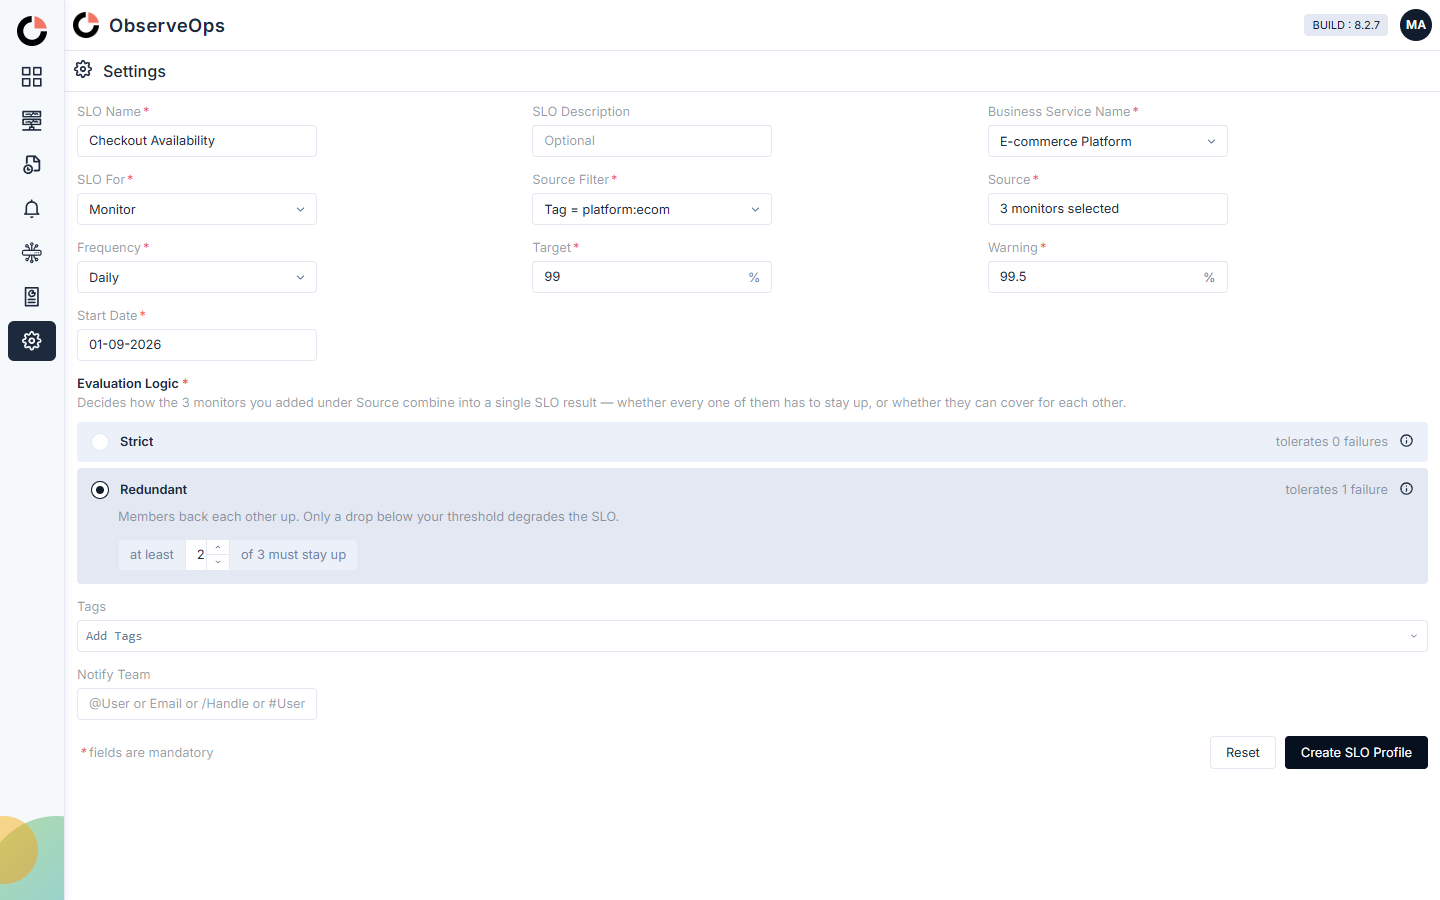
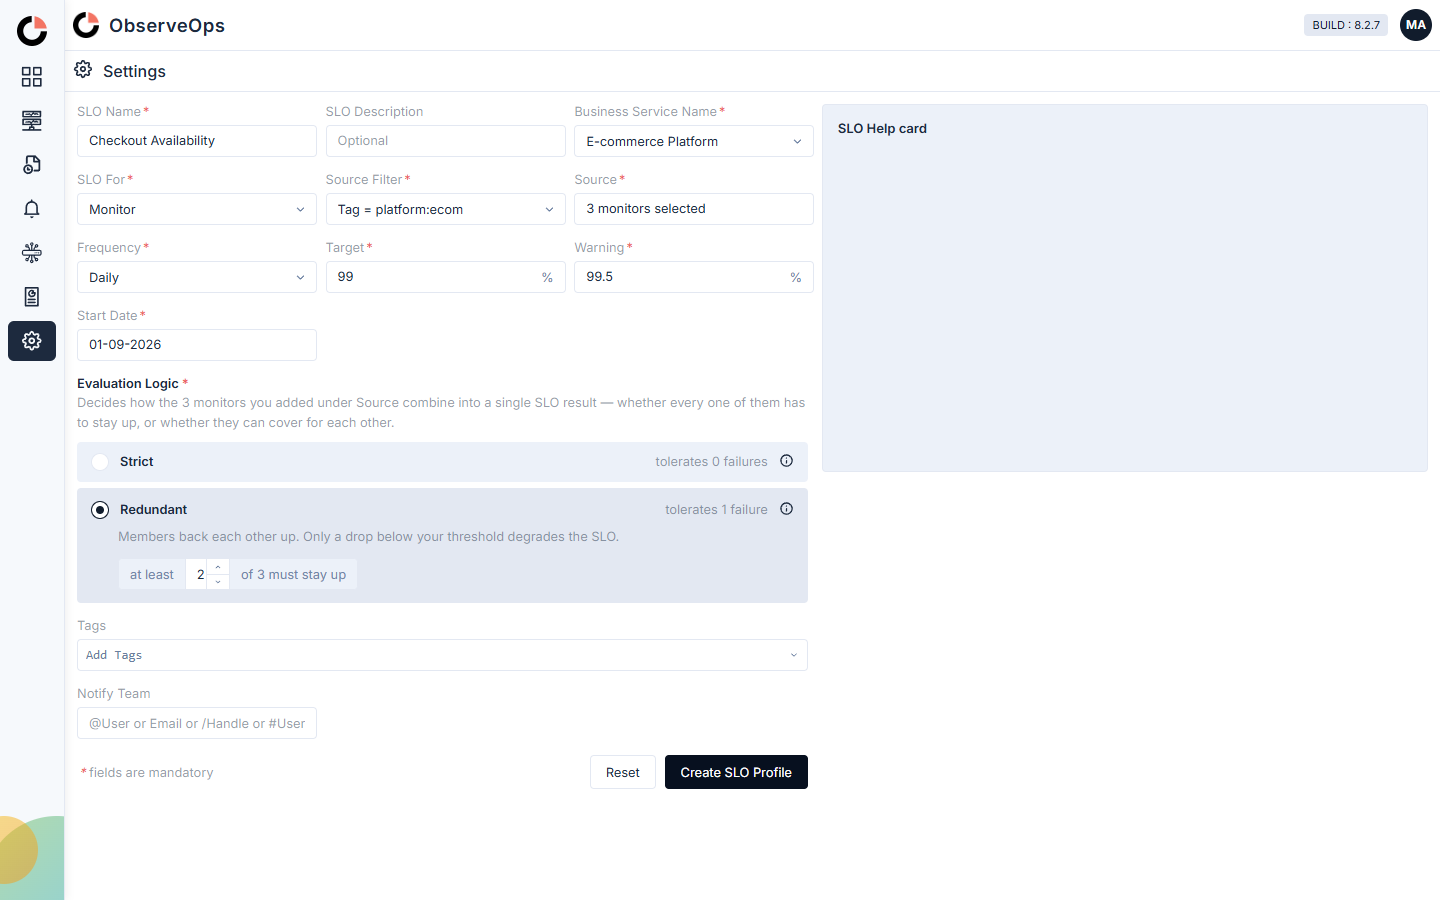
feat(slo): reserve the Help Card column on Create
Artboard 2 is two columns — the form, and the Help Card beside it. This
takes the wireframe's 56/44 split and puts a titled, empty panel in the
right column.

Deliberately not approximated: the real card is a worked five-day matrix
with a recovered-percentage-points note, and it lands here when the
designer calls for it. The test asserts the body is empty so a
placeholder cannot quietly become the deliverable.

Claude-Session: https://claude.ai/code/session_01FqGHHgiXHA6aMRMxv489J6

diff --git a/src/slo-profile/createForm.js b/src/slo-profile/createForm.js
@@ -14,6 +14,7 @@ const label = (id, text, { required = false } = {}) =>
 
 export function renderCreateForm(host, { onCancel, onCreate = () => {} }) {
   host.innerHTML = `
+    <div class="slo-create">
     <div class="slo-form">
       <div class="slo-form__grid">
         <div data-field="name" class="slo-field">
@@ -73,6 +74,14 @@ export function renderCreateForm(host, { onCancel, onCreate = () => {} }) {
         <obs-button id="slo-form-reset" variant="default">Reset</obs-button>
         <obs-button id="slo-form-create" variant="primary">Create SLO Profile</obs-button>
       </footer>
+    </div>
+    <aside class="slo-create__help" aria-labelledby="slo-help-title">
+      <h3 class="slo-create__help-title" id="slo-help-title">SLO Help card</h3>
+      <!-- Reserved. The full Help Card exists in redundancy-slo/wireframe.html artboard 2 — the
+           worked 5-day matrix and the "recovered N percentage points" note — and lands here when
+           the designer calls for it. Deliberately empty rather than approximated. -->
+      <div class="slo-create__help-body"></div>
+    </aside>
     </div>
   `
 

diff --git a/src/slo-profile/createForm.test.js b/src/slo-profile/createForm.test.js
@@ -45,6 +45,15 @@ describe('create slo profile form', () => {
     expect(host.querySelectorAll('.ev-row')).toHaveLength(2)
   })
 
+  // Reserved, not built: the designer asked for the slot and its title only, and will say when
+  // the full Help Card (artboard 2's worked matrix) should land in it.
+  it('reserves a titled Help Card beside the form', () => {
+    const help = host.querySelector('.slo-create__help')
+    expect(help).not.toBeNull()
+    expect(help.querySelector('.slo-create__help-title').textContent.trim()).toBe('SLO Help card')
+    expect(help.querySelector('.slo-create__help-body').textContent.trim()).toBe('')
+  })
+
   it('offers Reset and Create', () => {
     expect(host.querySelector('#slo-form-create').textContent).toContain('Create SLO Profile')
     expect(host.querySelector('#slo-form-reset')).not.toBeNull()

diff --git a/src/slo-profile/sloProfile.css b/src/slo-profile/sloProfile.css
@@ -104,3 +104,21 @@
 }
 
 .slo-form__note { margin-right: auto; color: var(--input-placeholder-color); }
+
+/* The Create screen is two columns, as artboard 2 is: the form, and the Help Card beside it.
+   Ratio follows the wireframe (56/44). The card is reserved space for now — titled, empty,
+   and not approximated. */
+.slo-create { display: flex; gap: 14px; align-items: flex-start; }
+.slo-create .slo-form { flex: 1 1 56%; min-width: 0; }
+
+.slo-create__help {
+  flex: 1 1 44%;
+  min-width: 0;
+  border: 1px solid var(--border-color);
+  border-radius: var(--btn-radius);
+  background: var(--common-main-bg);
+  padding: var(--common-padd-space);
+}
+
+.slo-create__help-title { margin: 0; font-size: 13px; font-weight: 600; color: var(--page-text-color); }
+.slo-create__help-body { min-height: 320px; }
